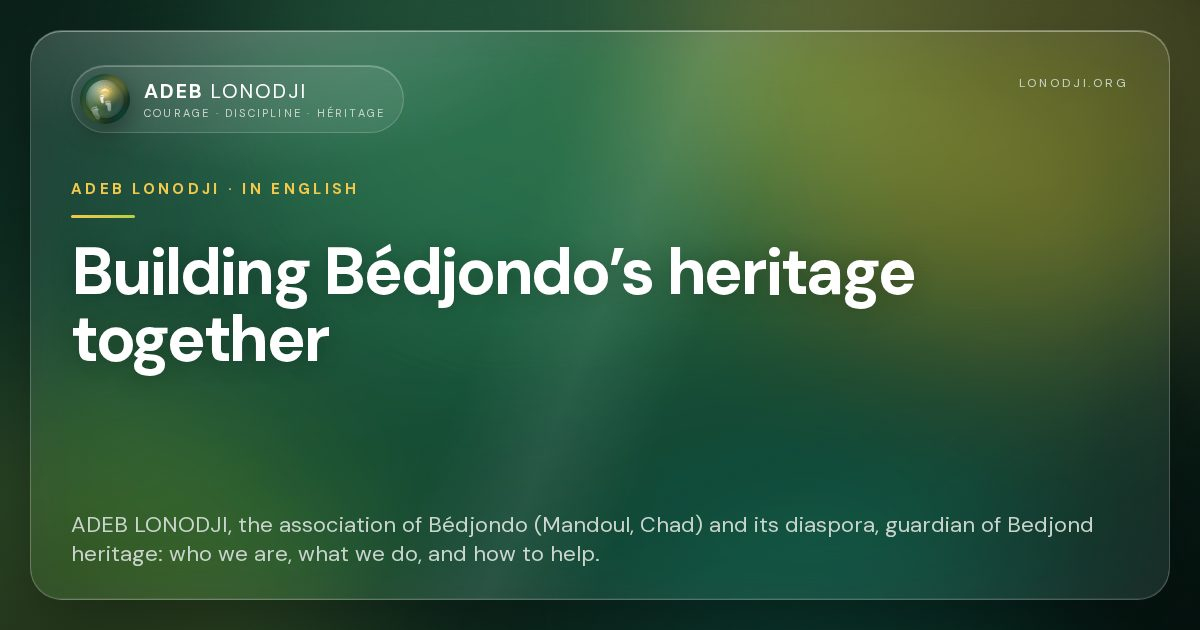
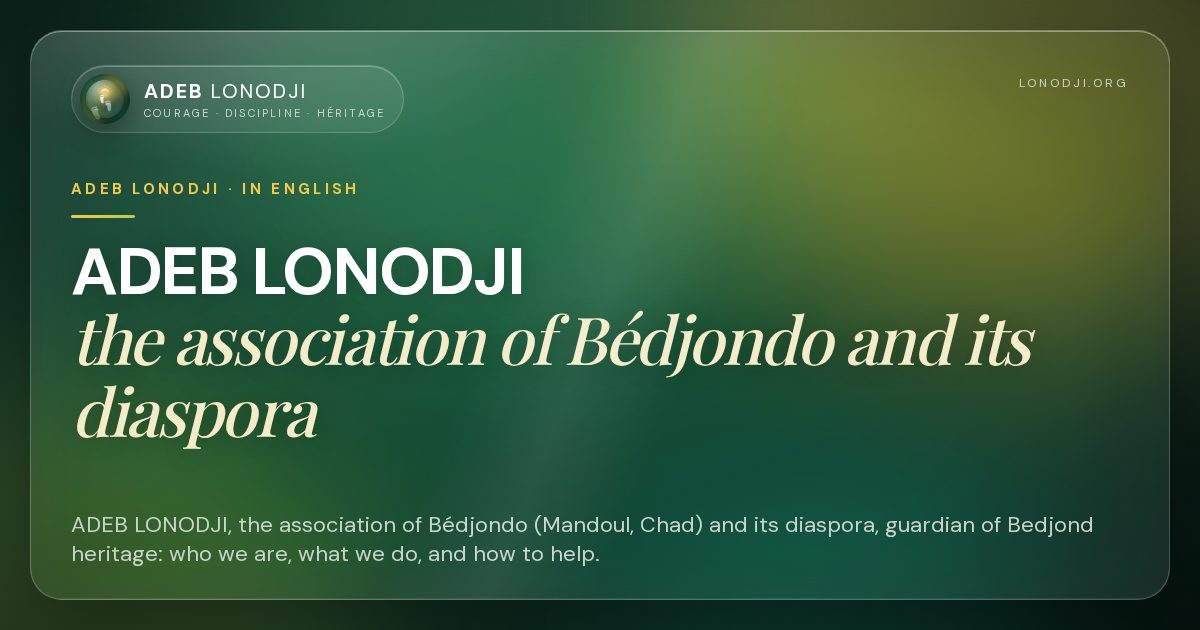
Accueil anglais refait sur le modèle du français
/en/index devient une page à part (app/en/index/page.tsx) : carte cliquable
du pays bedjond (composant bilingue), « Right now », six piliers avec noms
anglais, plaidoyers, chiffres du tableau de suivi en anglais, participer et
valeurs. Corrige l'ancien « 4 pillars ». Étiquette « prochaine étape »
traduite par attribut.

Claude-Session: https://claude.ai/code/session_01Fecvx1RJXf8AiWMrirT6WL

Changed region(s): [[0.0617, 0.3921, 0.8633, 0.7238]]

diff --git a/app/en/index/page.tsx b/app/en/index/page.tsx
@@ -1,0 +1,183 @@
+import type { Metadata } from "next";
+import Link from "@/components/lien";
+import CarteAccueil from "@/components/carte-accueil";
+import EnCeMoment from "@/components/en-ce-moment";
+import { filledCount, getIndex, getPage, metaDescription, ogFor, ORG, thematiqueCount } from "@/lib/content";
+import { alternatesLangues } from "@/lib/langues";
+import { getIndicateurs } from "@/lib/indicateurs";
+import { PRIORITAIRES } from "@/lib/organisation";
+import { etape, getElection } from "@/lib/election";
+import { getMagazine } from "@/lib/magazine";
+import { getPostes } from "@/lib/postes";
+import { getTransmissions } from "@/lib/transmissions";
+import { dateEn, inWordsEn, nomsEn } from "@/lib/structure-en";
+
+/* English home (1 October 2026), same layout as the French home (app/(fr)/page.tsx): clickable map of the Bedjond
+   country, what is happening now, the six pillars, the advocacy briefs, the dashboard and how to help. Pillar and
+   theme names come from the English themes page; figures from content/. */
+const ROUTE = "/en/index";
+const legacy = getPage("en/index");
+export const metadata: Metadata = {
+  title: { absolute: "ADEB LONODJI — the association of Bédjondo and its diaspora" },
+  description: metaDescription(legacy.description || legacy.lede),
+  alternates: { canonical: ROUTE, languages: alternatesLangues(ROUTE) },
+  openGraph: { ...ogFor(ROUTE, "en"), title: "ADEB LONODJI — the association of Bédjondo and its diaspora" },
+};
+
+const BRIEFS_EN: Record<string, string> = {
+  "plaidoyer-internet": "Broadband internet", "plaidoyer-electricite": "Electricity", "plaidoyer-commune": "Note to the commune",
+  "plaidoyer-eau": "Drinking water", "plaidoyer-sante": "Health", "plaidoyer-routes": "Roads and bridges",
+  "plaidoyer-education": "Education", "plaidoyer-formation-pro": "Vocational training",
+};
+const VALUES: [string, string][] = [
+  ["Courage", "Facing the community’s challenges without waiting for a solution to come from elsewhere."],
+  ["Discipline", "Keeping our commitments, respecting our organisation and reporting on what is done."],
+  ["Heritage", "Preserving what the Bedjond community has built, and passing it on stronger."],
+];
+const MONTHS = ["Jan", "Feb", "Mar", "Apr", "May", "Jun", "Jul", "Aug", "Sep", "Oct", "Nov", "Dec"];
+const fmt = (n: number) => new Intl.NumberFormat("en-GB").format(n);
+
+export default function HomeEn() {
+  const idx = getIndex();
+  const { piliers, themes } = nomsEn();
+  const total = thematiqueCount(idx);
+  const filled = filledCount(idx);
+  const indicateurs = getIndicateurs();
+  const c = indicateurs.contenu;
+  const poles = idx.structure.poles;
+  const prio = new Set(PRIORITAIRES.map((p) => p.id));
+  const el = getElection();
+  const vote = etape("vote");
+  const mag = getMagazine().numeros[0];
+  const postes = getPostes();
+  const tr = getTransmissions();
+  const lettres = Object.values(tr).reduce((n, t) => n + t.destinataires.length, 0);
+  const steps: Record<string, string> = {
+    appel: "Call for candidates for the pillar vice-presidencies", cloture: "Candidacies close", liste: "List of candidates",
+    vote: `College vote: ${inWordsEn(el.poles.length)} vice-presidencies`, resultats: "Results, in the register of decisions",
+  };
+  const etapes = [
+    ...Object.keys(steps).map((cle) => { const e = etape(cle); const [, m, j] = e.date.split("-").map(Number); return { date: e.date, jour: String(j), mois: MONTHS[m - 1], quoi: steps[cle], href: "/en/election#calendar" }; }),
+    ...(mag ? [{ date: "2027-01-01", jour: "Jan", mois: "2027", quoi: `Lonodji magazine no. ${mag.numero + 1} (in French)`, href: "/magazine" }] : []),
+  ];
+  const genres = [["titulaire", "lead", "leads"], ["adjoint", "deputy", "deputies"], ["vice-presidence", "pillar vice-presidency", "pillar vice-presidencies"]] as const;
+
+  return (
+    <main id="main-content" className="accueil" lang="en">
+      <section className="acc-hero" aria-labelledby="hero-title">
+        <div className="acc-hero-texte">
+          <h1 id="hero-title">The association of Bédjondo and its diaspora.</h1>
+          <p className="acc-hero-lead">
+            We work for water, health, schools, roads and energy in Bédjondo, in southern Chad, and its cantons, and we safeguard the language, history and heritage of the Bedjond people. Officially recognised in 1995, the association was relaunched in 2026.
+          </p>
+          <div className="acc-hero-actions">
+            <Link className="acc-bouton acc-bouton--plein" href="/en/contact">Join us</Link>
+            <Link className="acc-bouton" href="/en/organisation">How we are organised</Link>
+          </div>
+          <p className="acc-hero-carte-aide">
+            <b>{fmt(c.carte.localitesNommees)} localities, one record each.</b> Choose a unit on the map to find your village (records in French), or <Link href="/en/villages">read about the villages in English</Link>.
+          </p>
+        </div>
+        <CarteAccueil lang="en" />
+      </section>
+
+      <section className="acc-section acc-moment" aria-labelledby="moment-title">
+        <div className="acc-tete">
+          <h2 id="moment-title">Right now</h2>
+          <p>{inWordsEn(el.poles.length, true)} pillar vice-presidents to elect on {dateEn(vote.date, false)}, {inWordsEn(postes.length)} open posts, and a magazine published every quarter.</p>
+        </div>
+        <EnCeMoment etapes={etapes} prochaine="Next step" />
+        <div className="acc-duo">
+          {mag ? (
+            <a className="acc-mag" href={mag.pdf} hrefLang="fr">
+              {/* eslint-disable-next-line @next/next/no-img-element */}
+              <img src={mag.couverture} alt="" width={800} height={1131} loading="lazy" decoding="async" />
+              <span>
+                <small>Quarterly magazine · no. {mag.numero}, October 2026 · in French</small>
+                <strong>Lonodji: six pillars, seven priorities</strong>
+                <span>{mag.pages} pages to print or share on WhatsApp. Download the PDF ({mag.taille.replace(",", ".").replace("Mo", "MB")}).</span>
+              </span>
+            </a>
+          ) : null}
+          <Link className="acc-postes" href="/en/organisation#priorities">
+            <strong>{inWordsEn(postes.length, true)} posts are looking for someone</strong>
+            <span>Lead a theme, be its deputy, or stand for a pillar vice-presidency. Voluntary, in Chad or in the diaspora.</span>
+            <ul className="acc-postes-genres">
+              {genres.map(([g, one, many]) => { const n = postes.filter((x) => x.genre === g).length; return n ? <li key={g}><b>{n}</b> {n > 1 ? many : one}</li> : null; })}
+            </ul>
+          </Link>
+        </div>
+      </section>
+
+      <section className="acc-section acc-poles" aria-labelledby="poles-title">
+        <div className="acc-tete">
+          <h2 id="poles-title">{inWordsEn(poles.length, true)} pillars, {inWordsEn(total)} themes</h2>
+          <p>Each pillar has an elected vice-president, each theme a coordinator. {filled} of {total} themes have one; the {inWordsEn(prio.size)} priority themes carry our advocacy briefs.</p>
+        </div>
+        <div className="acc-poles-grille">
+          {poles.map((p) => (
+            <article key={p.id} className="acc-pole">
+              <span className="acc-pole-num" aria-hidden="true">{p.roman}</span>
+              <h3><Link href="/en/themes"><span className="sr-only">Pillar {p.roman}: </span>{piliers[p.roman] ?? p.name}</Link></h3>
+              <p className="acc-pole-vp">{p.direction?.filled ? <>Vice-president: {p.direction.name}</> : <Link href="/en/election">Vice-president to be elected on {dateEn(vote.date, false)}</Link>}</p>
+              <ul>
+                {p.items.map((t) => (
+                  <li key={t.id} className={t.filled ? "" : "vacant"}>
+                    <span className="acc-them-num">{t.number}</span>
+                    <span>{themes[t.number] ?? t.name}{prio.has(t.id) ? <em className="acc-prio"> priority</em> : null}{t.filled ? null : <small> open</small>}</span>
+                  </li>
+                ))}
+              </ul>
+            </article>
+          ))}
+        </div>
+        <p className="acc-liens"><Link href="/en/themes">All themes and their coordinators</Link><Link href="/en/organisation">The decisions of 1 October 2026</Link><Link href="/en/sectors">Our work in donors’ sectors</Link></p>
+      </section>
+
+      <section className="acc-section acc-plaidoyers" aria-labelledby="plaidoyers-title">
+        <div className="acc-tete">
+          <h2 id="plaidoyers-title">{inWordsEn(idx.plaidoyers.length, true)} advocacy briefs for Bédjondo</h2>
+          <p>Sourced and costed, each with named recipients. The {lettres} cover letters are ready and await the board’s signature; each dispatch and each reply will be dated.</p>
+        </div>
+        <ol className="acc-plaidoyers-liste">
+          {idx.plaidoyers.map((p) => (
+            <li key={p.id}><Link href="/en/advocacy"><small>Advocacy brief</small><strong>{BRIEFS_EN[p.id] ?? p.title}</strong></Link></li>
+          ))}
+        </ol>
+        <p className="acc-liens"><Link href="/en/advocacy">Our advocacy, in English</Link><Link href="/en/commune">Proposals to the commune</Link><Link href="/en/donors">Donor programmes in Chad</Link></p>
+      </section>
+
+      <section className="acc-section acc-comptes impact" aria-labelledby="comptes-title">
+        <div className="impact-intro">
+          <h2 id="comptes-title">What is done, and what is not yet</h2>
+          <p>Dated, sourced indicators, {c.corrections} corrections published openly, a reply within 48 working hours and a complaints mechanism, even anonymous.</p>
+          <p className="acc-liens acc-liens--clair"><Link href="/en/impact">The impact dashboard</Link><Link href="/en/about">About the association</Link><Link href="/en/odeb">The ODEB LONODJI vision</Link></p>
+        </div>
+        <dl className="acc-chiffres">
+          <div><dt>Theme coordinators</dt><dd><b>{c.coordinations.pourvues}</b> of {c.coordinations.total}</dd></div>
+          <div><dt>Pillar vice-presidents</dt><dd><b>{c.coordinations.directionsPourvues}</b> of {c.coordinations.directionsTotal}</dd></div>
+          <div><dt>Advocacy briefs</dt><dd><b>{c.plaidoyers.publies}</b> published, {c.plaidoyers.envoyes} sent, {c.plaidoyers.reponses} replies</dd></div>
+          <div><dt>Local problems documented</dt><dd><b>{c.problematiques.documentees}</b> of {c.problematiques.total}; {c.problematiques.inconnues} still unknown</dd></div>
+          <div><dt>Localities on the map</dt><dd><b>{fmt(c.carte.localitesNommees)}</b> named, in {c.carte.unites} units</dd></div>
+          <div><dt>Corrections published</dt><dd><b>{c.corrections}</b>, each dated</dd></div>
+        </dl>
+      </section>
+
+      <section className="acc-section acc-participer" aria-labelledby="participer-title">
+        <div className="acc-tete">
+          <h2 id="participer-title">A place for every contribution</h2>
+          <p>We reply within 48 working hours, by the <Link className="lien-souligne" href="/en/contact">contact form</Link> or on the association’s number, that of its president, Adoumbé Maoura: <a className="lien-souligne" href={ORG.phoneHref}>{ORG.phone}</a>, calls and <a className="lien-souligne" href={ORG.whatsapp} target="_blank" rel="noopener noreferrer">WhatsApp</a>.</p>
+        </div>
+        <ul className="acc-participer-grille">
+          <li><Link href="/en/organisation#priorities"><strong>Take on a post</strong><span>{inWordsEn(postes.length, true)} open posts: lead, deputise, chair a pillar.</span></Link></li>
+          <li><Link href="/en/contact"><strong>Join the association</strong><span>Declaring your intention commits no money: fundraising is suspended.</span></Link></li>
+          <li><Link href="/diaspora" hrefLang="fr"><strong>List your skills</strong><span>Five minutes to say what you can do, and be asked only for that (form in French).</span></Link></li>
+          <li><Link href="/en/villages"><strong>Find your village</strong><span>{fmt(c.carte.localitesNommees)} localities, what is known and what is missing.</span></Link></li>
+        </ul>
+        <dl className="acc-valeurs">
+          {VALUES.map(([t, d]) => <div key={t}><dt>{t}</dt><dd>{d}</dd></div>)}
+        </dl>
+      </section>
+    </main>
+  );
+}

diff --git a/components/carte-accueil.tsx b/components/carte-accueil.tsx
@@ -7,18 +7,26 @@ import { GROUPES, getVillages, ORDRE_GROUPES } from "@/lib/villages";
    Le nom et le nombre de localités apparaissent au survol et au focus clavier ; Bédjondo reste marquée. */
 type Carte = { largeur: number; hauteur: number; bedjondo: [number, number]; unites: { id: string; nom: string; groupe: string; d: string; cx: number; cy: number }[] };
 
-export default function CarteAccueil() {
+const GROUPES_EN: Record<string, string> = {
+  coeur: "Mandoul Occidental, heart of the Bedjond country",
+  sud: "Logone Oriental, attested Bedjond presence",
+  signale: "Logone Oriental, reported Bedjond presence",
+  diaspora: "Farming diaspora, reported presence",
+};
+
+export default function CarteAccueil({ lang = "fr" }: { lang?: "fr" | "en" }) {
+  const en = lang === "en";
   const carte: Carte = JSON.parse(fs.readFileSync(path.join(process.cwd(), "content", "territoire-carte.json"), "utf8"));
   const v = getVillages().unites;
-  const fr = new Intl.NumberFormat("fr-FR");
+  const fr = new Intl.NumberFormat(en ? "en-GB" : "fr-FR");
   const [bx, by] = carte.bedjondo;
   return (
     <figure className="acc-carte">
-      <svg viewBox={`0 0 ${carte.largeur} ${carte.hauteur}`} role="group" aria-label="Carte du pays bedjond : choisissez une unité pour voir ses villages">
+      <svg viewBox={`0 0 ${carte.largeur} ${carte.hauteur}`} role="group" aria-label={en ? "Map of the Bedjond country: choose a unit to see its villages (pages in French)" : "Carte du pays bedjond : choisissez une unité pour voir ses villages"}>
         {carte.unites.map((u) => {
           const n = v[u.id]?.comptes.nommes ?? 0;
           return (
-            <a key={u.id} href={`/villages/${u.id}`} data-u={u.id} className={`acc-unite acc-unite--${u.groupe}`} aria-label={`${u.nom} : ${fr.format(n)} localités nommées`}>
+            <a key={u.id} href={`/villages/${u.id}`} data-u={u.id} className={`acc-unite acc-unite--${u.groupe}`} aria-label={en ? `${u.nom}: ${fr.format(n)} named localities` : `${u.nom} : ${fr.format(n)} localités nommées`} hrefLang={en ? "fr" : undefined}>
               <path d={u.d} />
             </a>
           );
@@ -36,7 +44,7 @@ export default function CarteAccueil() {
             return (
               <g key={u.id} data-u={u.id} className="acc-etiquette" transform={`translate(${u.cx} ${u.cy})`}>
                 <text textAnchor={gauche ? "end" : "start"} x={gauche ? -14 : 14} y={-6}>{u.nom}</text>
-                <text className="acc-etiquette-n" textAnchor={gauche ? "end" : "start"} x={gauche ? -14 : 14} y={20}>{fr.format(n)} localités</text>
+                <text className="acc-etiquette-n" textAnchor={gauche ? "end" : "start"} x={gauche ? -14 : 14} y={20}>{fr.format(n)} {en ? "localities" : "localités"}</text>
                 <circle r="5" />
               </g>
             );
@@ -46,7 +54,7 @@ export default function CarteAccueil() {
       </svg>
       <figcaption>
         <ul className="acc-legende">
-          {ORDRE_GROUPES.map((g) => <li key={g} className={`acc-legende--${g}`}>{GROUPES[g]}</li>)}
+          {ORDRE_GROUPES.map((g) => <li key={g} className={`acc-legende--${g}`}>{en ? GROUPES_EN[g] : GROUPES[g]}</li>)}
         </ul>
       </figcaption>
     </figure>

diff --git a/app/site.css b/app/site.css
@@ -2112,7 +2112,7 @@ input[type=checkbox], input[type=radio]{ min-width:24px; min-height:24px; }
 .acc-frise span{ font-size:15px; line-height:1.4; font-weight:600; }
 .acc-frise a:hover span{ text-decoration:underline; text-underline-offset:4px; }
 .acc-frise li.fait time b{ color:#5f6f67; }
-.acc-frise li.prochaine span::after{ content:"Prochaine étape"; display:block; margin-top:6px; font-size:12.5px; font-weight:700; color:var(--acc-foret); }
+.acc-frise li.prochaine span::after{ content:attr(data-prochaine); display:block; margin-top:6px; font-size:12.5px; font-weight:700; color:var(--acc-foret); }
 .acc-duo{ display:grid; grid-template-columns:minmax(0,1fr) minmax(0,1fr); gap:16px; margin-top:44px; }
 .acc-mag, .acc-postes{ display:flex; gap:22px; padding:22px; border-radius:20px; background:#fff; border:1px solid var(--acc-filet); color:var(--acc-encre); text-decoration:none; transition:border-color .2s ease; }
 .acc-mag:hover, .acc-postes:hover{ border-color:var(--acc-foret); }
@@ -2223,3 +2223,10 @@ input[type=checkbox], input[type=radio]{ min-width:24px; min-height:24px; }
 @media (prefers-reduced-motion:reduce){ .acc-unite path, .acc-etiquette, .acc-bouton{ transition:none; } }
 /* Accueil : la barre de verre passe sur le vert du héros ; on l'opacifie pour garder le contraste du texte (axe). */
 body:has(.acc-hero) .nav, body:has(.acc-hero) .tabbar{ background:rgba(248,250,246,.97); }
+/* accueil anglais : chiffres du tableau de suivi, en liste (le tableau de bord interactif est en français) */
+.acc-chiffres{ display:grid; grid-template-columns:repeat(2,minmax(0,1fr)); gap:12px; margin:0; }
+.acc-chiffres div{ padding:18px 20px; border-radius:16px; border:1px solid rgba(255,255,255,.18); background:rgba(255,255,255,.04); }
+.acc-chiffres dt{ font-size:13px; color:#c2d1c7; margin-bottom:6px; }
+.acc-chiffres dd{ margin:0; color:#fff; font-size:15px; }
+.acc-chiffres b{ font-family:var(--font-playfair),Georgia,serif; font-weight:500; font-size:36px; margin-right:6px; }
+@media (max-width:720px){ .acc-chiffres{ grid-template-columns:1fr; } }

diff --git a/components/en-ce-moment.tsx b/components/en-ce-moment.tsx
@@ -4,7 +4,7 @@ import { useEffect, useRef } from "react";
 
 /* Frise « En ce moment » de l'accueil : marque, au jour du lecteur, les étapes passées et la prochaine
    (la page est statique ; sans JavaScript, la frise reste lisible, sans marque). */
-export default function EnCeMoment({ etapes }: { etapes: { date: string; jour: string; mois: string; quoi: string; href: string }[] }) {
+export default function EnCeMoment({ etapes, prochaine = "Prochaine étape" }: { etapes: { date: string; jour: string; mois: string; quoi: string; href: string }[]; prochaine?: string }) {
   const ref = useRef<HTMLOListElement>(null);
   useEffect(() => {
     const auj = new Date().toISOString().slice(0, 10);
@@ -22,7 +22,7 @@ export default function EnCeMoment({ etapes }: { etapes: { date: string; jour: s
         <li key={e.date + e.quoi} data-date={e.date}>
           <a href={e.href}>
             <time dateTime={e.date}><b>{e.jour}</b> {e.mois}</time>
-            <span>{e.quoi}</span>
+            <span data-prochaine={prochaine}>{e.quoi}</span>
           </a>
         </li>
       ))}

diff --git a/app/en/[slug]/page.tsx b/app/en/[slug]/page.tsx
@@ -10,7 +10,7 @@ export const dynamicParams = false;
 const TITRES: Record<string, string> = { bedjondo: "Bédjondo, Chad" };
 
 export function generateStaticParams() {
-  return listEnSlugs().map((slug) => ({ slug }));
+  return listEnSlugs().filter((slug) => slug !== "index").map((slug) => ({ slug }));   // /en/index : app/en/index/page.tsx
 }
 
 export async function generateMetadata({ params }: { params: Promise<{ slug: string }> }): Promise<Metadata> {
